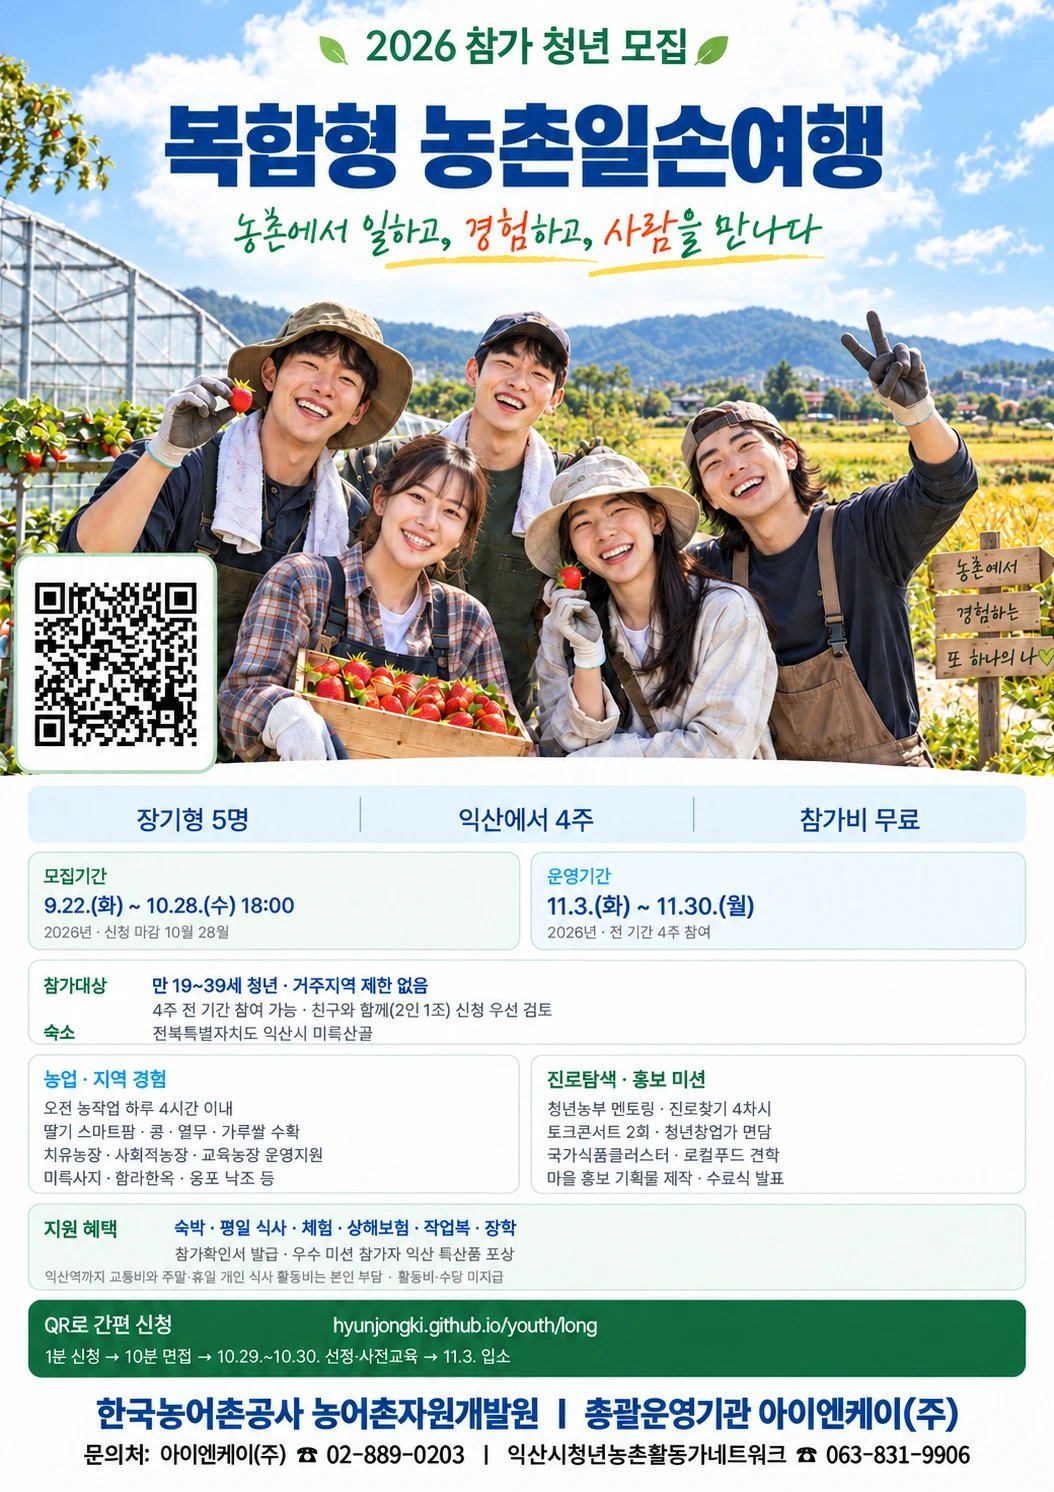
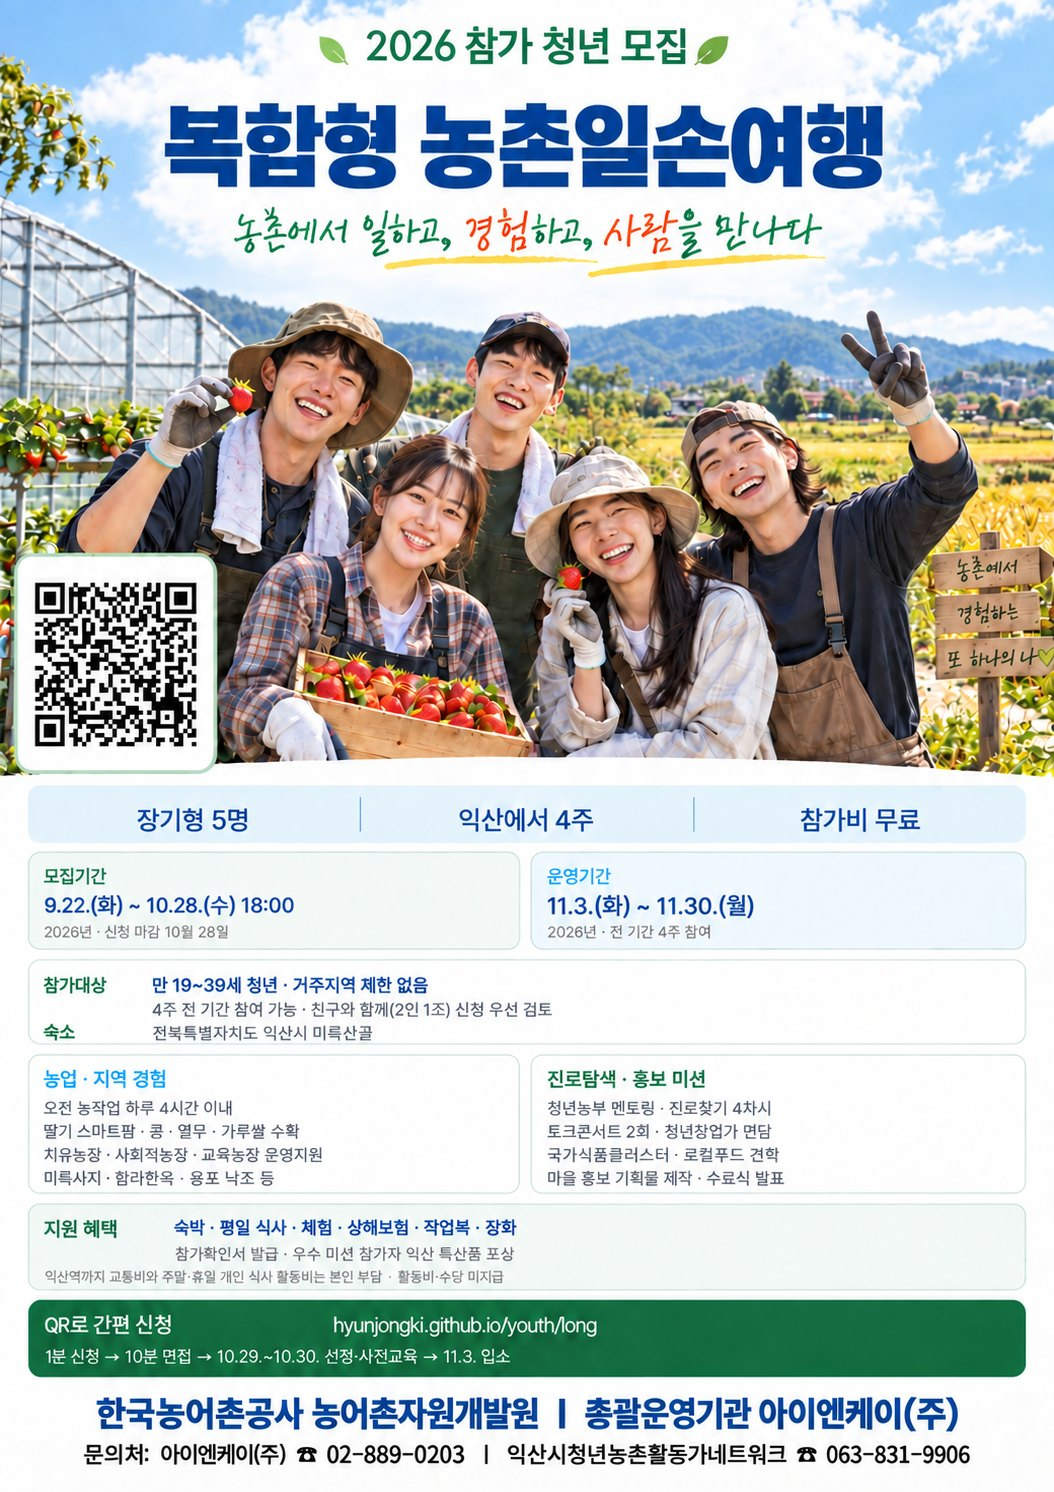
youth gateway: 홍보자료실 갱신 → https://exception-portfolio-latter-compact.trycloudflare.com

diff --git a/kit/index.html b/kit/index.html
@@ -51,32 +51,32 @@ body{margin:0;font-family:-apple-system,BlinkMacSystemFont,'Pretendard','Apple S
 </div>
 <div class="grid"><div class="c" style="--c:#1f6fb2">
   <div class="t">중기형(2주) <small>10.20.~11.2.</small></div>
-  <a class="th" href="poster_mid.jpg?v=3205e80e"><img src="poster_mid_s.jpg?v=3205e80e" alt="중기형 포스터" loading="lazy"></a>
+  <a class="th" href="poster_mid.jpg?v=951a23a3"><img src="poster_mid_s.jpg?v=951a23a3" alt="중기형 포스터" loading="lazy"></a>
   <div class="in">
     <div class="dl">⏰ 추가 모집 10.15.(목) 18:00 마감</div>
     <div class="row">
-      <a class="b" href="poster_mid.jpg?v=3205e80e">포스터 보기</a>
-      <a class="b f" href="poster_mid.png?v=3205e80e" download="복합형 농촌일손여행_포스터(중기형).png">저장 <small>PNG 1.6MB</small></a>
+      <a class="b" href="poster_mid.jpg?v=951a23a3">포스터 보기</a>
+      <a class="b f" href="poster_mid.png?v=951a23a3" download="복합형 농촌일손여행_포스터(중기형).png">저장 <small>PNG 1.9MB</small></a>
     </div>
     <div class="row">
-      <a class="b" href="magazine_mid.pdf?v=3205e80e">매거진 보기</a>
-      <a class="b f" href="magazine_mid.pdf?v=3205e80e" download="복합형 농촌일손여행_참가안내 매거진(중기형).pdf">저장 <small>PDF 3.5MB</small></a>
+      <a class="b" href="magazine_mid.pdf?v=951a23a3">매거진 보기</a>
+      <a class="b f" href="magazine_mid.pdf?v=951a23a3" download="복합형 농촌일손여행_참가안내 매거진(중기형).pdf">저장 <small>PDF 3.5MB</small></a>
     </div>
     <a class="b ap" href="../mid/?ch=kit">중기형 신청하기 →</a>
   </div>
 </div>
 <div class="c" style="--c:#d4602a">
   <div class="t">장기형(4주) <small>11.3.~11.30.</small></div>
-  <a class="th" href="poster_long.jpg?v=d7edec14"><img src="poster_long_s.jpg?v=d7edec14" alt="장기형 포스터" loading="lazy"></a>
+  <a class="th" href="poster_long.jpg?v=d711748a"><img src="poster_long_s.jpg?v=d711748a" alt="장기형 포스터" loading="lazy"></a>
   <div class="in">
     <div class="dl">⏰ 추가 모집 10.28.(수) 18:00 마감</div>
     <div class="row">
-      <a class="b" href="poster_long.jpg?v=d7edec14">포스터 보기</a>
-      <a class="b f" href="poster_long.png?v=d7edec14" download="복합형 농촌일손여행_포스터(장기형).png">저장 <small>PNG 1.6MB</small></a>
+      <a class="b" href="poster_long.jpg?v=d711748a">포스터 보기</a>
+      <a class="b f" href="poster_long.png?v=d711748a" download="복합형 농촌일손여행_포스터(장기형).png">저장 <small>PNG 1.9MB</small></a>
     </div>
     <div class="row">
-      <a class="b" href="magazine_long.pdf?v=d7edec14">매거진 보기</a>
-      <a class="b f" href="magazine_long.pdf?v=d7edec14" download="복합형 농촌일손여행_참가안내 매거진(장기형).pdf">저장 <small>PDF 4.1MB</small></a>
+      <a class="b" href="magazine_long.pdf?v=d711748a">매거진 보기</a>
+      <a class="b f" href="magazine_long.pdf?v=d711748a" download="복합형 농촌일손여행_참가안내 매거진(장기형).pdf">저장 <small>PDF 4.1MB</small></a>
     </div>
     <a class="b ap" href="../long/?ch=kit">장기형 신청하기 →</a>
   </div>
